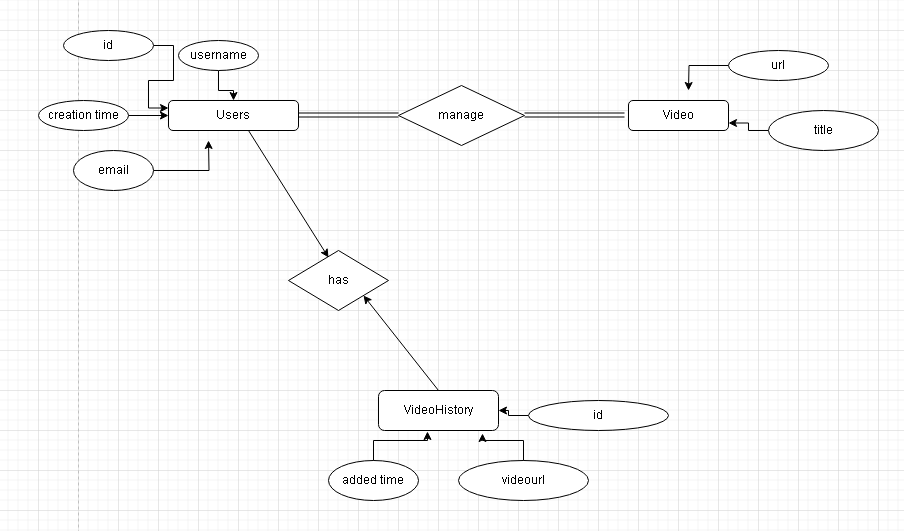
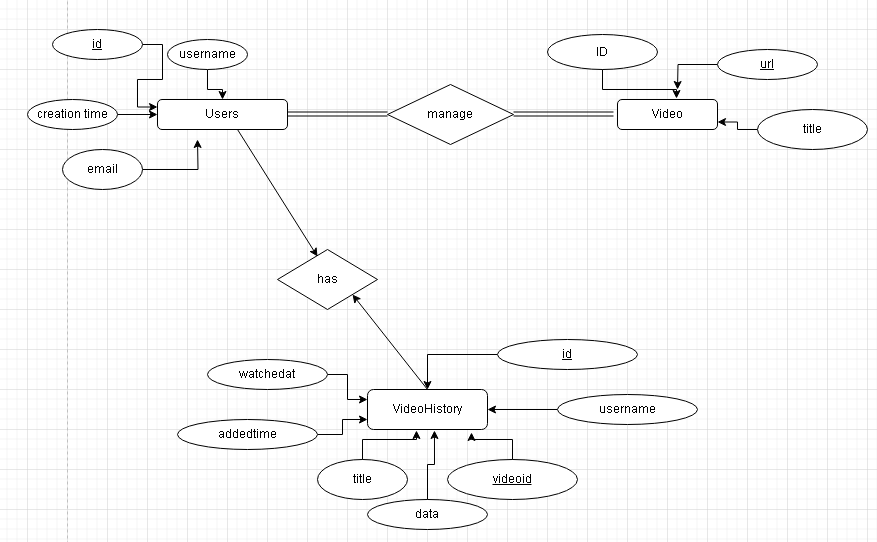
semi finished missing a collection that would hold json data in video history

diff --git a/Program.cs b/Program.cs
@@ -209,7 +209,12 @@ app.MapPost("/addvideo", (AddVideoRequest request, IVideoRepo videoRepo) =>
         };
 
         videoRepo.addvideo(video);
-        return Results.Created($"/video/{video.Id}", video);
+        var updatedVideos = videoRepo.LoadVideos();
+        return Results.Created($"/video/{video.Id}", new
+        {
+            Video = video,
+            AllVideos = updatedVideos
+        });
     }
     catch (Exception ex)
     {

diff --git a/README.md b/README.md
@@ -1,5 +1,4 @@
 # edmundN
-## **The Sauce but the s is silent** <br>
 
 Executive Summary <br>
 ================================================================================<br>
@@ -15,7 +14,7 @@ Executive Summary <br>
 
 ================================================================================<br>
 
-This program aims to enhance user experience by extending a third-party API to incorporate advanced functionalities for video data management. Key features include the ability to save video metadata and their associated scraped data, enabling users to access and interact with the content more efficiently. By integrating these capabilities, we will provide a more seamless and optimized experience for users, ultimately driving engagement and satisfaction.
+This program aims to enhance user experience by extending a third-party API to incorporate advanced functionalities for video data management. Key features include the ability to save video user metadata into a searchable format, that would allow for users to access and interact with the content more efficiently. By integrating these capabilities, we will provide a more seamless and optimized experience for users, ultimately driving engagement and satisfaction.
 
 ![Alt text](aa123.png)
 
